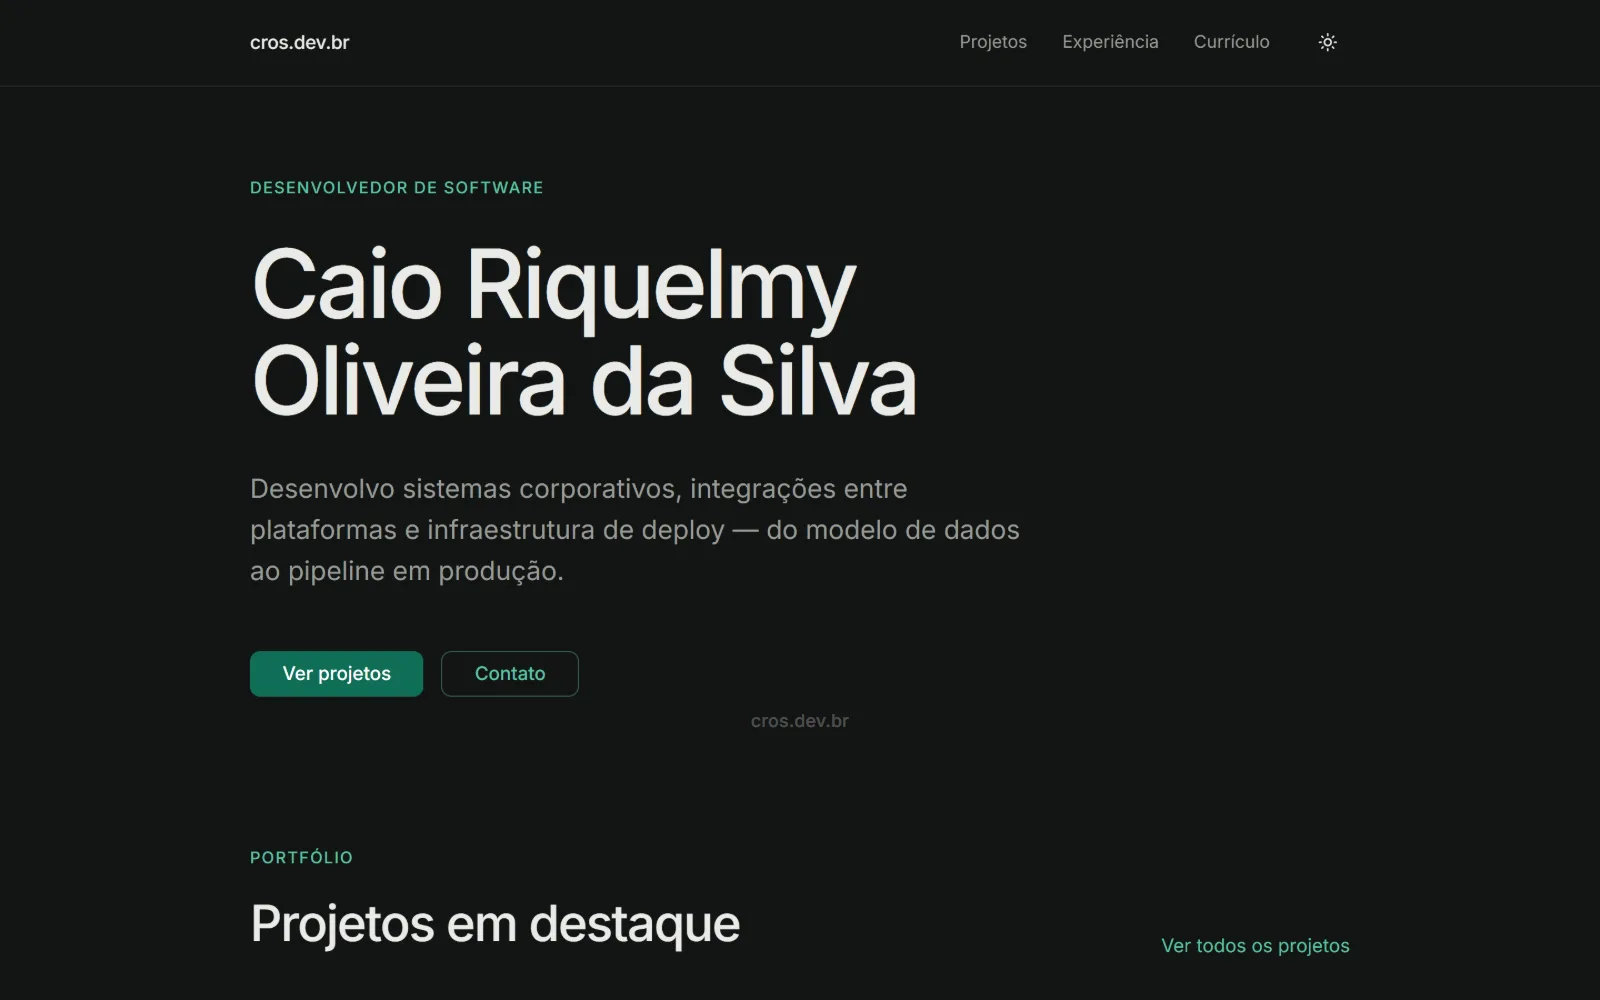
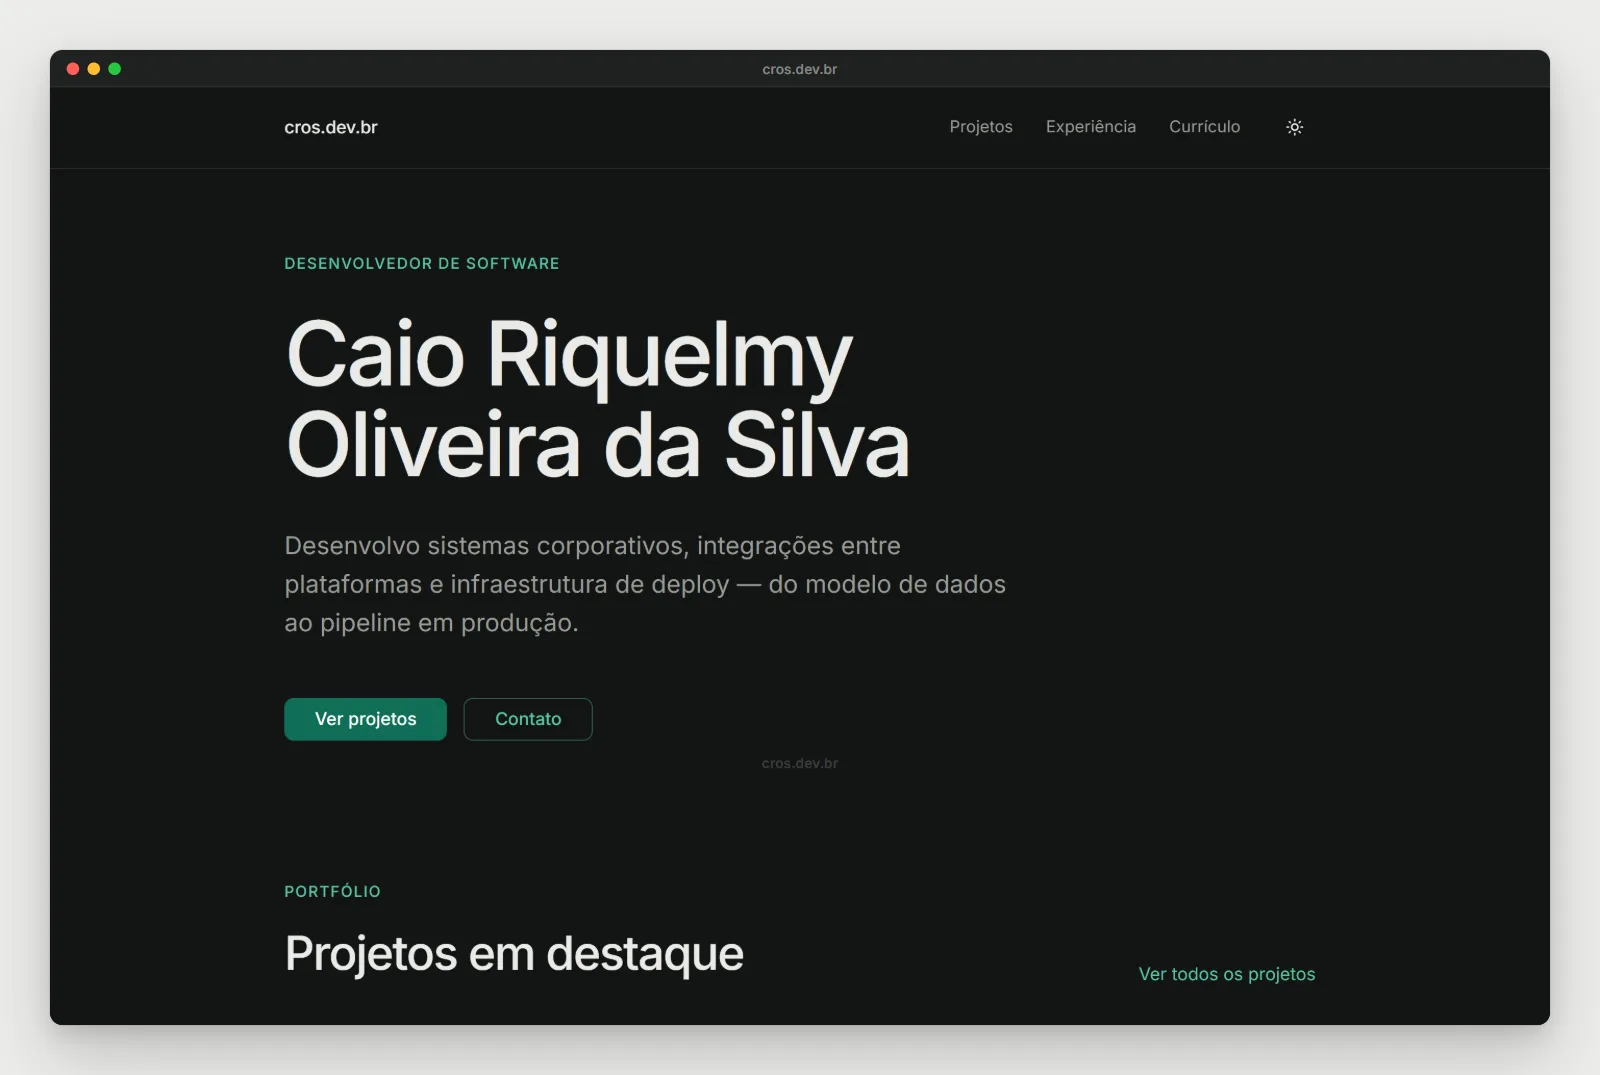
feat: amplia galerias com telas do app e moldura de janela
- Sete telas do app mobile do líder na galeria do Zona Azul, após as telas do sistema web
- Itens de sinalização com nomes genéricos
- Capturas de desktop em moldura de janela, com assinatura discreta no conteúdo
- Tela de homologação, com ocorrência lançada pelo líder, no lugar da tela de setores
- Detalhe da ocorrência na visão da assistente

diff --git a/src/features/projects/content/projects.ts b/src/features/projects/content/projects.ts
@@ -7,8 +7,15 @@ import zonaAzulPainel from "~/assets/projects/zona-azul/01-painel.webp";
 import zonaAzulGraficos from "~/assets/projects/zona-azul/02-graficos.webp";
 import zonaAzulDetalheOcorrencia from "~/assets/projects/zona-azul/03-detalhe-ocorrencia.webp";
 import zonaAzulNovaOcorrencia from "~/assets/projects/zona-azul/04-nova-ocorrencia.webp";
-import zonaAzulSetores from "~/assets/projects/zona-azul/05-setores.webp";
+import zonaAzulHomologacao from "~/assets/projects/zona-azul/05-homologacao.webp";
 import zonaAzulEscalas from "~/assets/projects/zona-azul/06-escalas.webp";
+import zonaAzulAppSetores from "~/assets/projects/zona-azul/07-app-setores.webp";
+import zonaAzulAppOcorrencias from "~/assets/projects/zona-azul/08-app-ocorrencias.webp";
+import zonaAzulAppDetalhe from "~/assets/projects/zona-azul/09-app-detalhe.webp";
+import zonaAzulAppMotivo from "~/assets/projects/zona-azul/10-app-motivo.webp";
+import zonaAzulAppCategoriasSinalizacao from "~/assets/projects/zona-azul/11-app-categorias-sinalizacao.webp";
+import zonaAzulAppItensSinalizacao from "~/assets/projects/zona-azul/12-app-itens-sinalizacao.webp";
+import zonaAzulAppVandalismo from "~/assets/projects/zona-azul/13-app-vandalismo.webp";
 import { parseContent } from "~/lib/content";
 import { projectsSchema } from "~/features/projects/schemas/project";
 
@@ -46,37 +53,79 @@ export const projects = parseContent(
           src: zonaAzulPainel,
           alt: "Painel com receita perdida, ocorrências e vagas afetadas no período e gráfico de receita perdida por dia",
           width: 1600,
-          height: 1000,
+          height: 1075,
         },
         {
           src: zonaAzulGraficos,
           alt: "Gráficos de receita perdida por setor, motivo, área e subárea, com o detalhe de uma barra em cada gráfico",
           width: 1600,
-          height: 1000,
+          height: 1075,
         },
         {
           src: zonaAzulDetalheOcorrencia,
           alt: "Detalhe de uma ocorrência com dados, cálculo da receita perdida, fotos de campo e linha do tempo da validação",
           width: 1600,
-          height: 1000,
+          height: 1075,
         },
         {
           src: zonaAzulNovaOcorrencia,
           alt: "Formulário de nova ocorrência preenchido, com vagas selecionadas, fotos e total estimado em tempo real",
           width: 1600,
-          height: 1000,
+          height: 1075,
         },
         {
-          src: zonaAzulSetores,
-          alt: "Lista de setores com área, subárea, líder titular, backup, vagas e pendências",
+          src: zonaAzulHomologacao,
+          alt: "Ocorrência validada aguardando a homologação da supervisão, com a linha do tempo da esteira",
           width: 1600,
-          height: 1000,
+          height: 1075,
         },
         {
           src: zonaAzulEscalas,
           alt: "Escala semanal de líderes titulares por setor",
           width: 1600,
-          height: 1000,
+          height: 1075,
+        },
+        {
+          src: zonaAzulAppSetores,
+          alt: "App do líder: setores titulares e de cobertura como backup",
+          width: 800,
+          height: 1512,
+        },
+        {
+          src: zonaAzulAppOcorrencias,
+          alt: "App do líder: lista de ocorrências com busca e filtro por status",
+          width: 800,
+          height: 1512,
+        },
+        {
+          src: zonaAzulAppDetalhe,
+          alt: "App do líder: detalhe da ocorrência com fotos comprobatórias",
+          width: 800,
+          height: 1512,
+        },
+        {
+          src: zonaAzulAppMotivo,
+          alt: "App do líder: escolha do motivo ao registrar uma ocorrência",
+          width: 800,
+          height: 1512,
+        },
+        {
+          src: zonaAzulAppCategoriasSinalizacao,
+          alt: "App do líder: categorias do catálogo de itens de sinalização",
+          width: 800,
+          height: 1512,
+        },
+        {
+          src: zonaAzulAppItensSinalizacao,
+          alt: "App do líder: seleção de placas danificadas com quantidade",
+          width: 800,
+          height: 1512,
+        },
+        {
+          src: zonaAzulAppVandalismo,
+          alt: "App do líder: ocorrência de vandalismo de sinalização com itens e período preenchidos",
+          width: 800,
+          height: 1512,
         },
       ],
     },
@@ -110,25 +159,25 @@ export const projects = parseContent(
           src: crosInicioClaro,
           alt: "Página inicial no tema claro com nome, título profissional e atalhos para projetos e contato",
           width: 1600,
-          height: 1000,
+          height: 1075,
         },
         {
           src: crosInicioEscuro,
           alt: "Página inicial no tema escuro",
           width: 1600,
-          height: 1000,
+          height: 1075,
         },
         {
           src: crosProjetos,
           alt: "Linha do tempo dos projetos em destaque na página inicial",
           width: 1600,
-          height: 1000,
+          height: 1075,
         },
         {
           src: crosCurriculo,
           alt: "Currículo em formato de documento, pronto para impressão",
           width: 1600,
-          height: 1000,
+          height: 1075,
         },
         {
           src: crosInicioCelular,

diff --git a/src/features/projects/components/project-gallery.test.tsx b/src/features/projects/components/project-gallery.test.tsx
@@ -49,7 +49,7 @@ describe("ProjectGallery and ProjectTimelineCard gallery integration", () => {
     cleanup();
   });
 
-  it("renders gallery buttons 1 to 6 in both detail and summary variants", () => {
+  it("renders gallery buttons 1 to 13 in both detail and summary variants", () => {
     if (!projectWithGallery) {
       throw new Error("Expected at least one project");
     }
@@ -58,9 +58,9 @@ describe("ProjectGallery and ProjectTimelineCard gallery integration", () => {
       <ProjectTimelineCard project={projectWithGallery} variant="detail" />,
     );
 
-    for (let index = 1; index <= 6; index += 1) {
+    for (let index = 1; index <= 13; index += 1) {
       expect(
-        screen.getByRole("button", { name: `Ampliar imagem ${index} de 6` }),
+        screen.getByRole("button", { name: `Ampliar imagem ${index} de 13` }),
       ).toBeInTheDocument();
     }
 
@@ -70,14 +70,14 @@ describe("ProjectGallery and ProjectTimelineCard gallery integration", () => {
       <ProjectTimelineCard project={projectWithGallery} variant="summary" />,
     );
 
-    for (let index = 1; index <= 6; index += 1) {
+    for (let index = 1; index <= 13; index += 1) {
       expect(
-        screen.getByRole("button", { name: `Ampliar imagem ${index} de 6` }),
+        screen.getByRole("button", { name: `Ampliar imagem ${index} de 13` }),
       ).toBeInTheDocument();
     }
   });
 
-  it("opens dialog on clicked image with title and 3 / 6 counter, navigates, and closes on Fechar", () => {
+  it("opens dialog on clicked image with title and 3 / 13 counter, navigates, and closes on Fechar", () => {
     if (!projectWithGallery?.gallery) {
       throw new Error("Expected project with gallery");
     }
@@ -90,7 +90,7 @@ describe("ProjectGallery and ProjectTimelineCard gallery integration", () => {
     );
 
     fireEvent.click(
-      screen.getByRole("button", { name: "Ampliar imagem 3 de 6" }),
+      screen.getByRole("button", { name: "Ampliar imagem 3 de 13" }),
     );
 
     expect(
@@ -98,15 +98,15 @@ describe("ProjectGallery and ProjectTimelineCard gallery integration", () => {
         name: `Imagens — ${projectWithGallery.title}`,
       }),
     ).toBeInTheDocument();
-    expect(screen.getByText("3 / 6")).toBeInTheDocument();
+    expect(screen.getByText("3 / 13")).toBeInTheDocument();
 
     fireEvent.click(
       screen.getAllByRole("button", { name: "Próxima imagem" })[0],
     );
-    expect(screen.getByText("4 / 6")).toBeInTheDocument();
+    expect(screen.getByText("4 / 13")).toBeInTheDocument();
 
     fireEvent.keyDown(window, { key: "ArrowLeft" });
-    expect(screen.getByText("3 / 6")).toBeInTheDocument();
+    expect(screen.getByText("3 / 13")).toBeInTheDocument();
 
     fireEvent.click(screen.getByRole("button", { name: "Fechar" }));
     expect(
@@ -129,17 +129,17 @@ describe("ProjectGallery and ProjectTimelineCard gallery integration", () => {
     );
 
     fireEvent.click(
-      screen.getByRole("button", { name: "Ampliar imagem 1 de 6" }),
+      screen.getByRole("button", { name: "Ampliar imagem 1 de 13" }),
     );
 
     const nextButtons = screen.getAllByRole("button", {
       name: "Próxima imagem",
     });
     expect(nextButtons.length).toBeGreaterThanOrEqual(2);
-    expect(screen.getByText("1 / 6")).toBeInTheDocument();
+    expect(screen.getByText("1 / 13")).toBeInTheDocument();
 
     fireEvent.click(nextButtons[0]);
-    expect(screen.getByText("2 / 6")).toBeInTheDocument();
+    expect(screen.getByText("2 / 13")).toBeInTheDocument();
   });
 
   it("omits duplicate thumbnails and animation when prefers-reduced-motion is enabled", () => {
@@ -157,7 +157,7 @@ describe("ProjectGallery and ProjectTimelineCard gallery integration", () => {
     );
 
     const allButtons = container.querySelectorAll("button");
-    expect(allButtons).toHaveLength(6);
+    expect(allButtons).toHaveLength(13);
     expect(
       container.querySelector(".project-gallery-track"),
     ).not.toBeInTheDocument();

diff --git a/src/routes/home.test.tsx b/src/routes/home.test.tsx
@@ -53,7 +53,7 @@ describe("Home route", () => {
 
     expect(
       within(projectItems[0] as HTMLElement).getAllByRole("button", {
-        name: "Ampliar imagem 1 de 6",
+        name: "Ampliar imagem 1 de 13",
       }).length,
     ).toBeGreaterThan(0);
 
